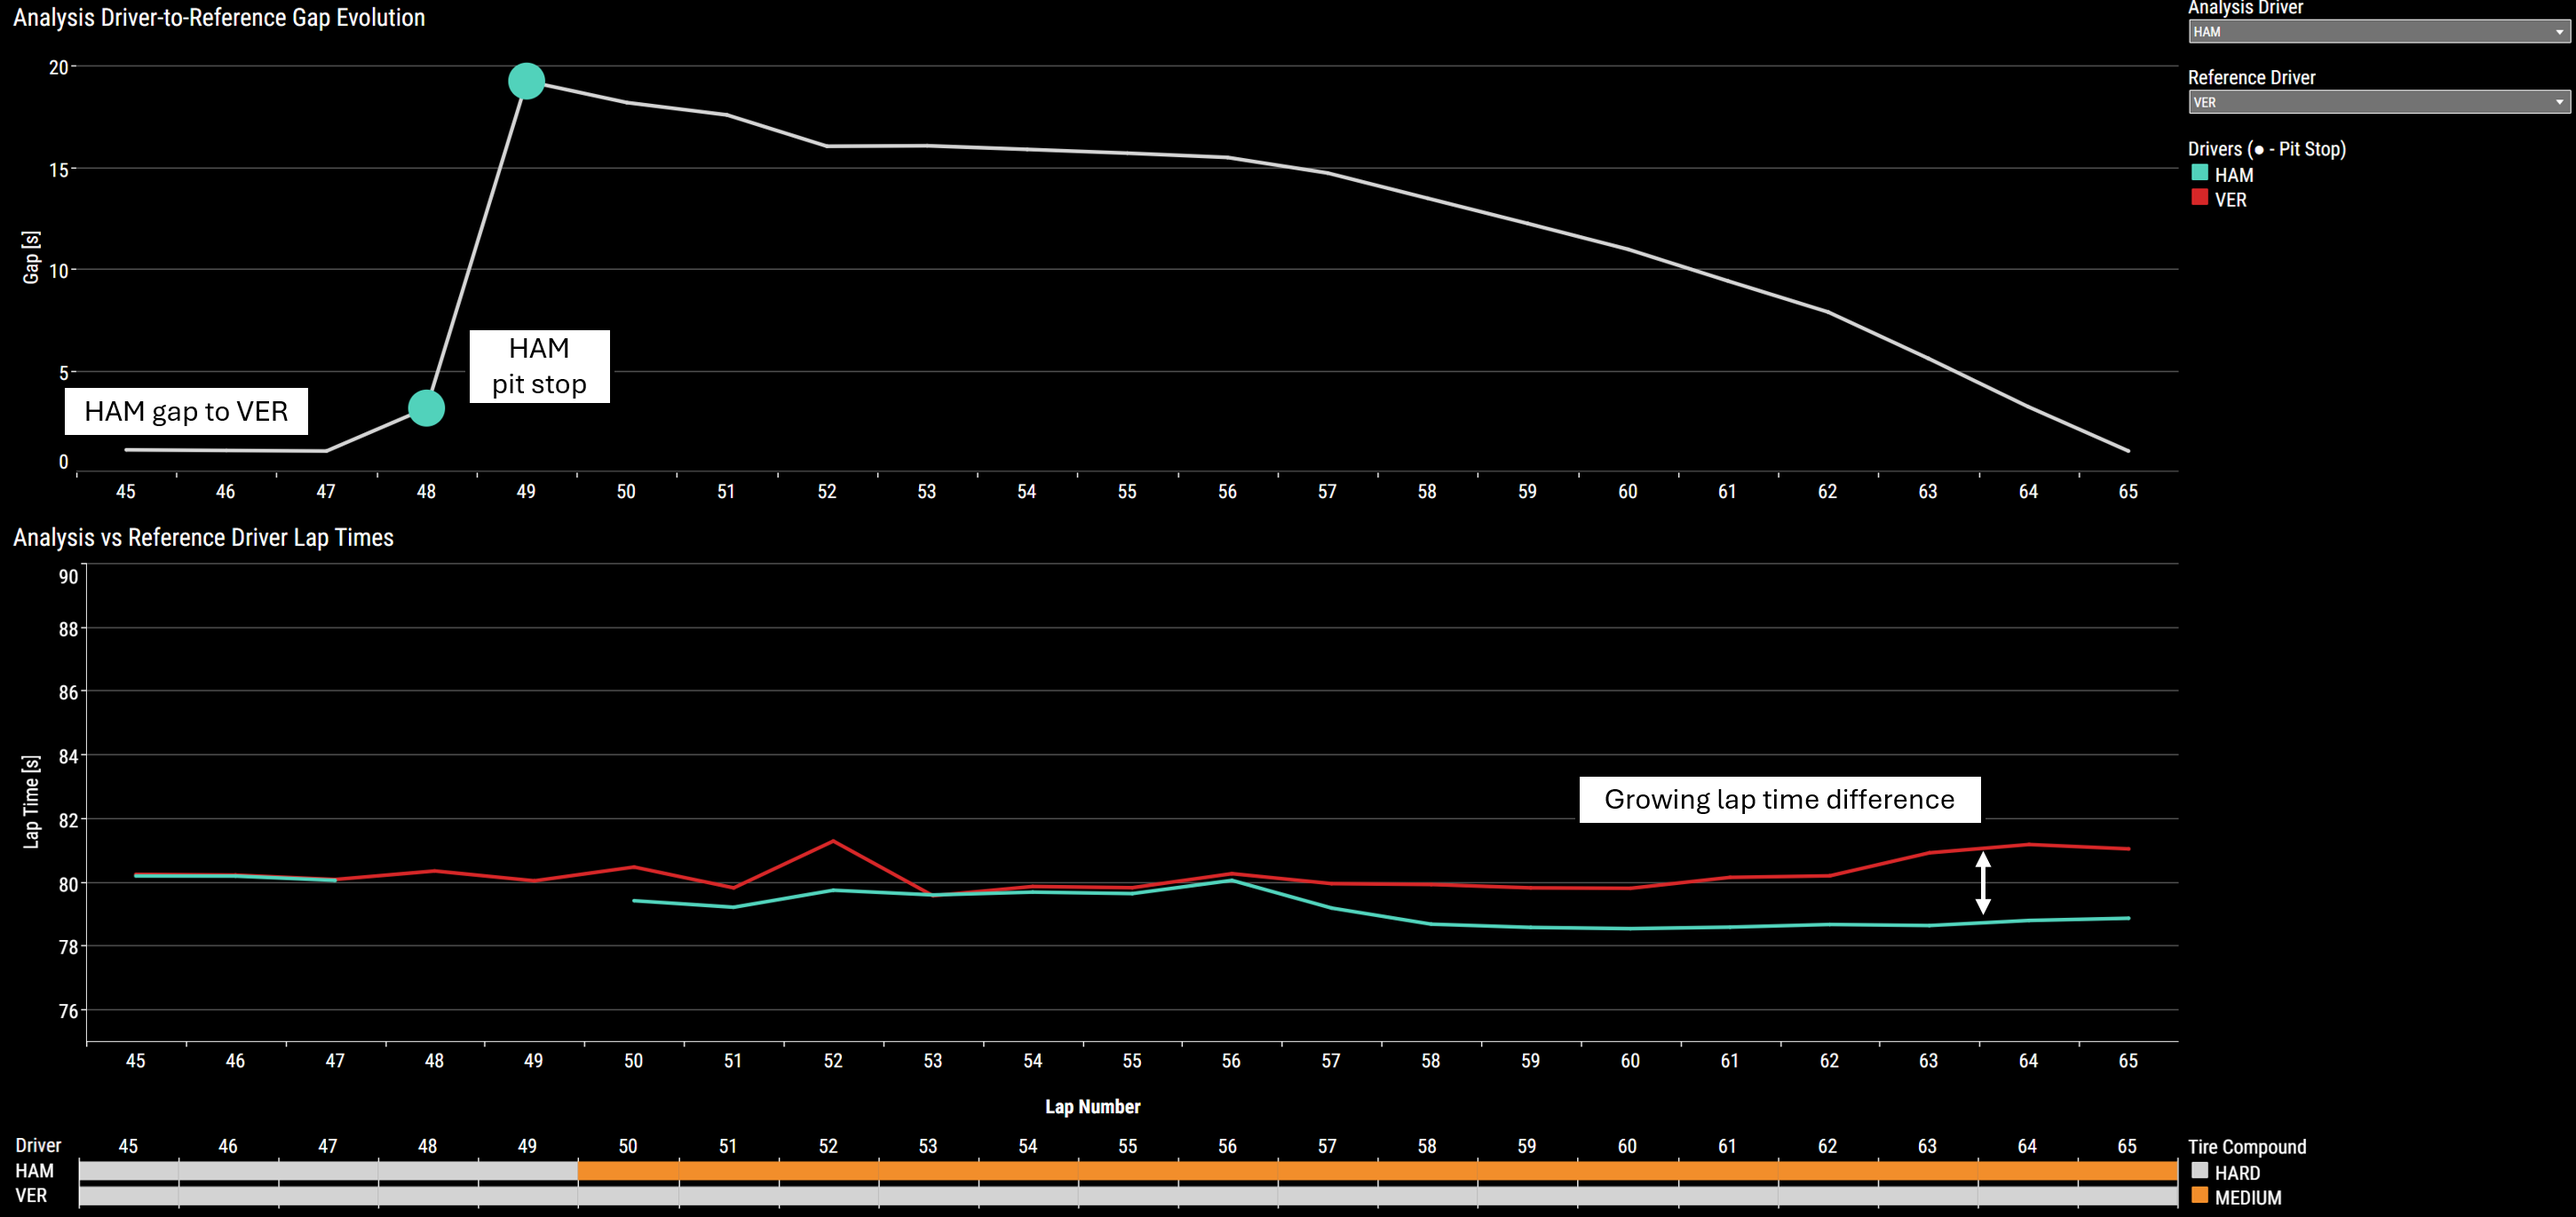
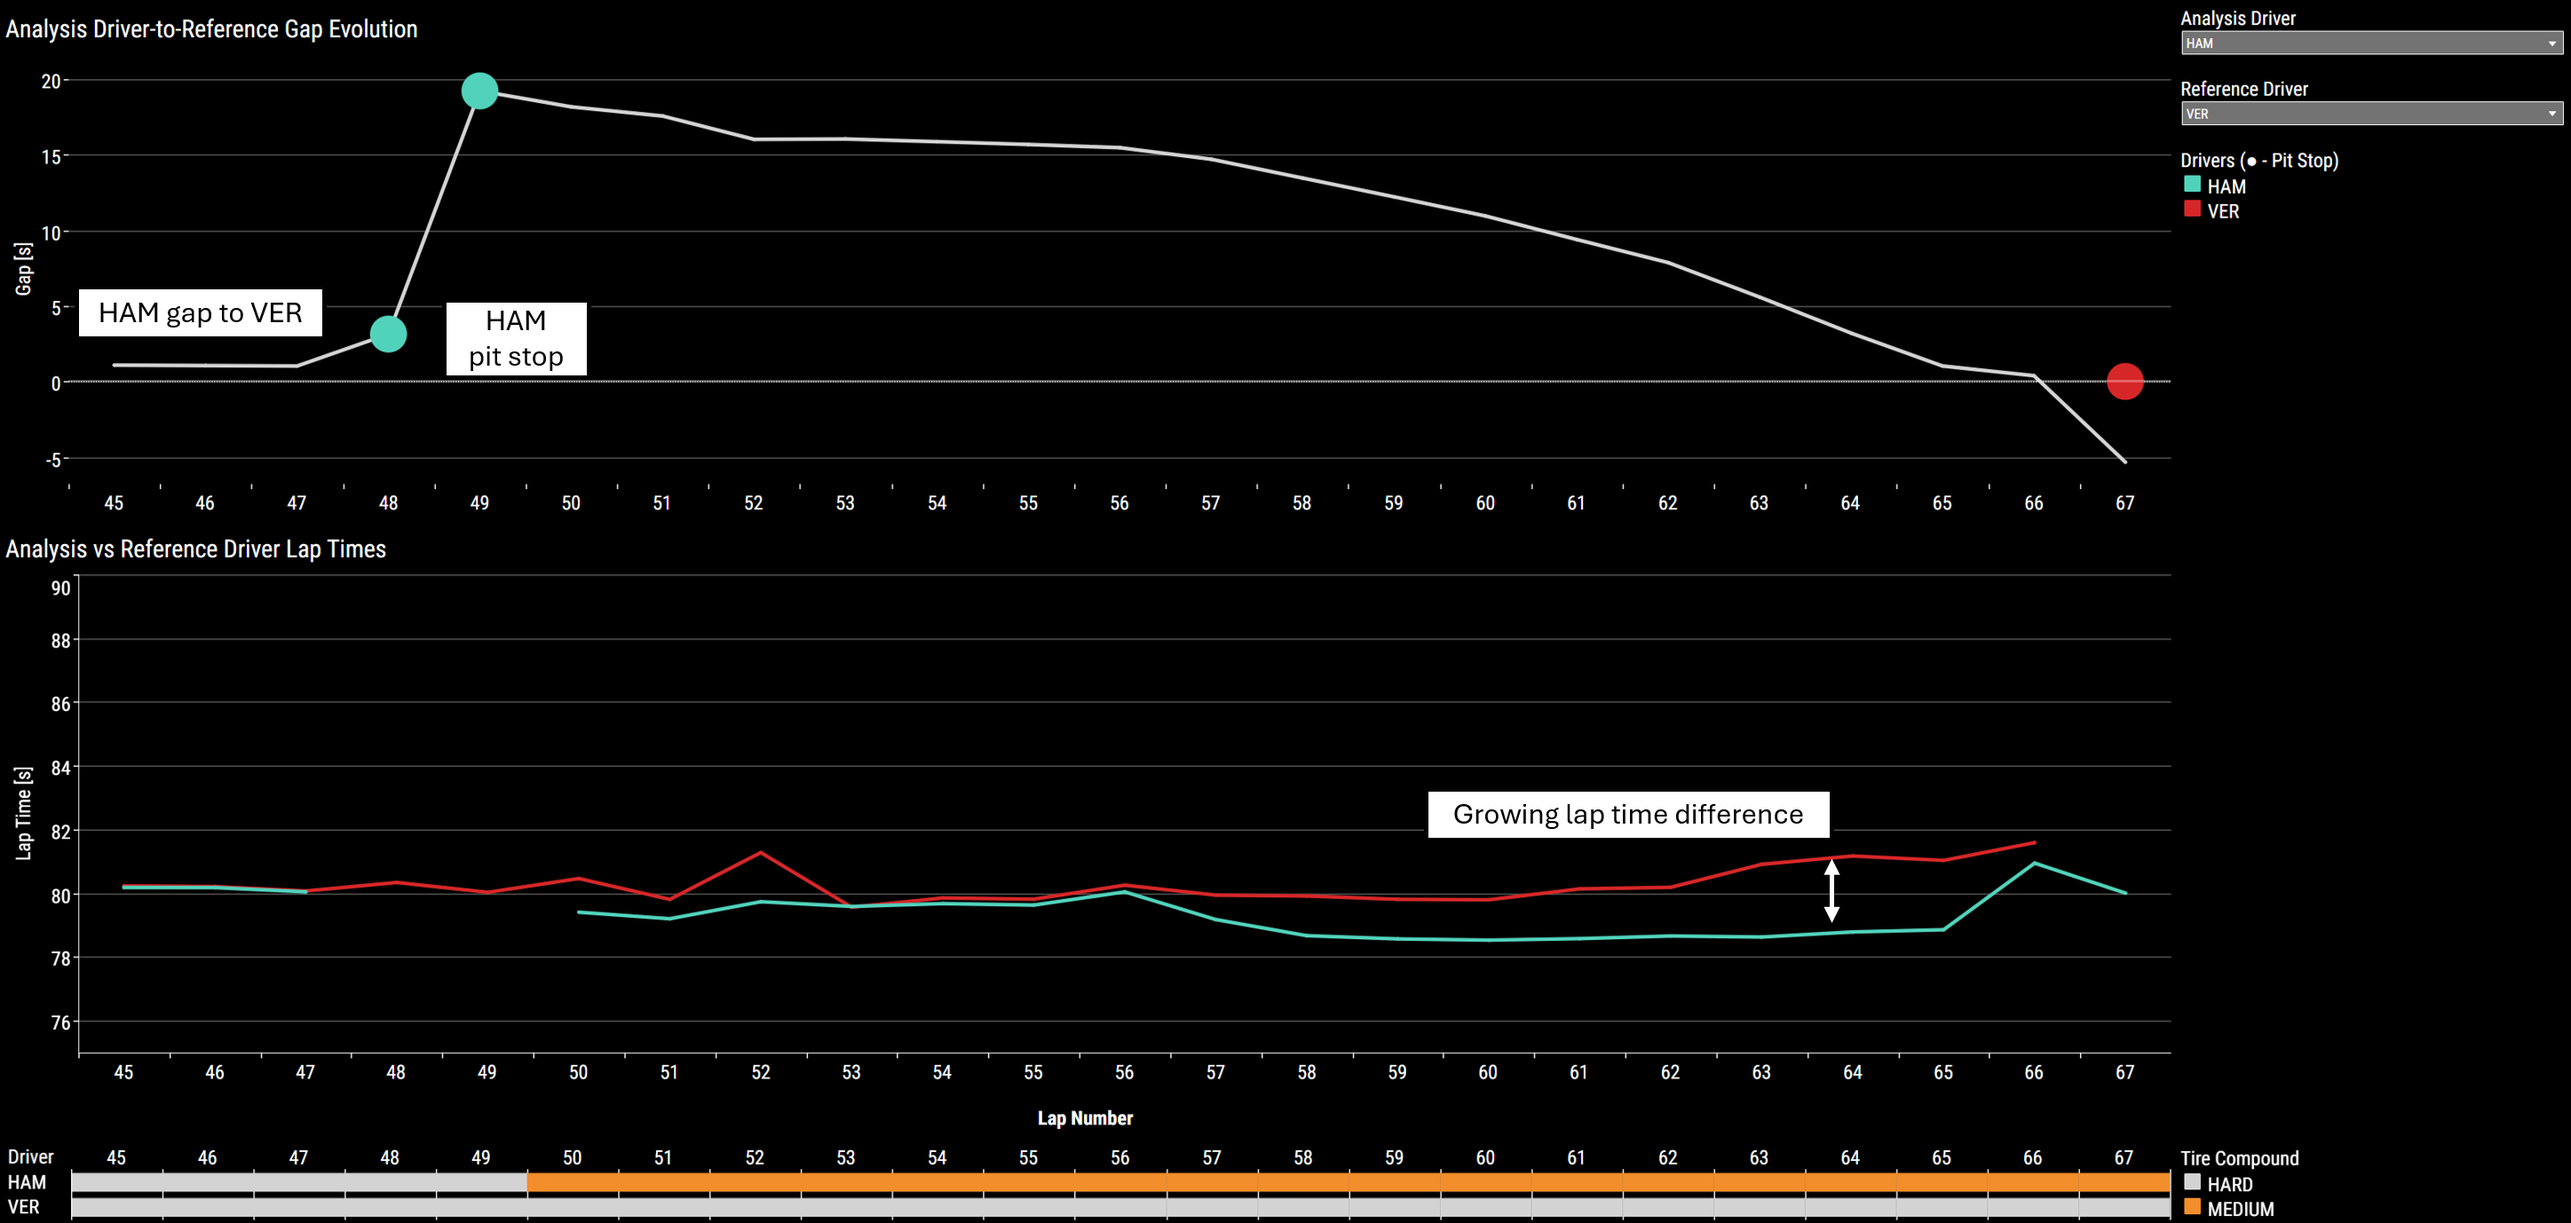
Update README.md

diff --git a/README.md b/README.md
@@ -26,7 +26,7 @@ The dashboard is configured to compare gaps between and lap times of two drivers
 
 A demo of this dashboard looks at Lewis Hamilton's victory of Max Verstappen in the 2019 Hungarian Grand Prix.
 
-Hamilton starts the race at P3 behind Verstappen in P1 and gets to P2 by the end of Lap 1. At Lap 25, Verstappen undercuts with an early pit stop and regains P1 during Hamilton's pit stop.
+Hamilton (HAM) starts the race at P3 behind Verstappen (VER) in P1 and gets to P2 by the end of Lap 1. At Lap 25, Verstappen undercuts with an early pit stop and regains P1 during Hamilton's pit stop.
 
 <img src="assets/01_lap25.png">
 
@@ -35,8 +35,10 @@ At Lap 48, Hamilton makes another pit stop. Hamilton's team had not planned for 
 
 <img src="assets/02_lap48.png">
 
-By Lap 66, Hamilton had closed the gap, forcing Verstappen to stay out on hard tires.
+After switching to medium tires, Hamilton consistently achieved faster lap times than Verstappen. By Lap 66, Hamilton had closed the gap, forcing Verstappen to stay out on hard tires. Verstappen decides to pit in Lap 67*, giving Hamilton the lead. Hamilton finishes Lap 70 in P1 pole position.
 
-Hamilton's second pit stop was also considered a "free pit stop" due to his significant 40s gap with Charles LeClerc behind him, resulting in no loss in racing position.
+Hamilton's second pit stop was also considered a "free pit stop" due to his significant 40s gap with rival driver Charles LeClerc behind him, resulting in no loss in racing position. This can be seen when switching the reference driver from VER to LEC.
 
 <img src="assets/03_lap48_lec.png">
+
+\* Verstappen switched to soft tires and achieved the fastest lap times to earn a bonus championship point.
